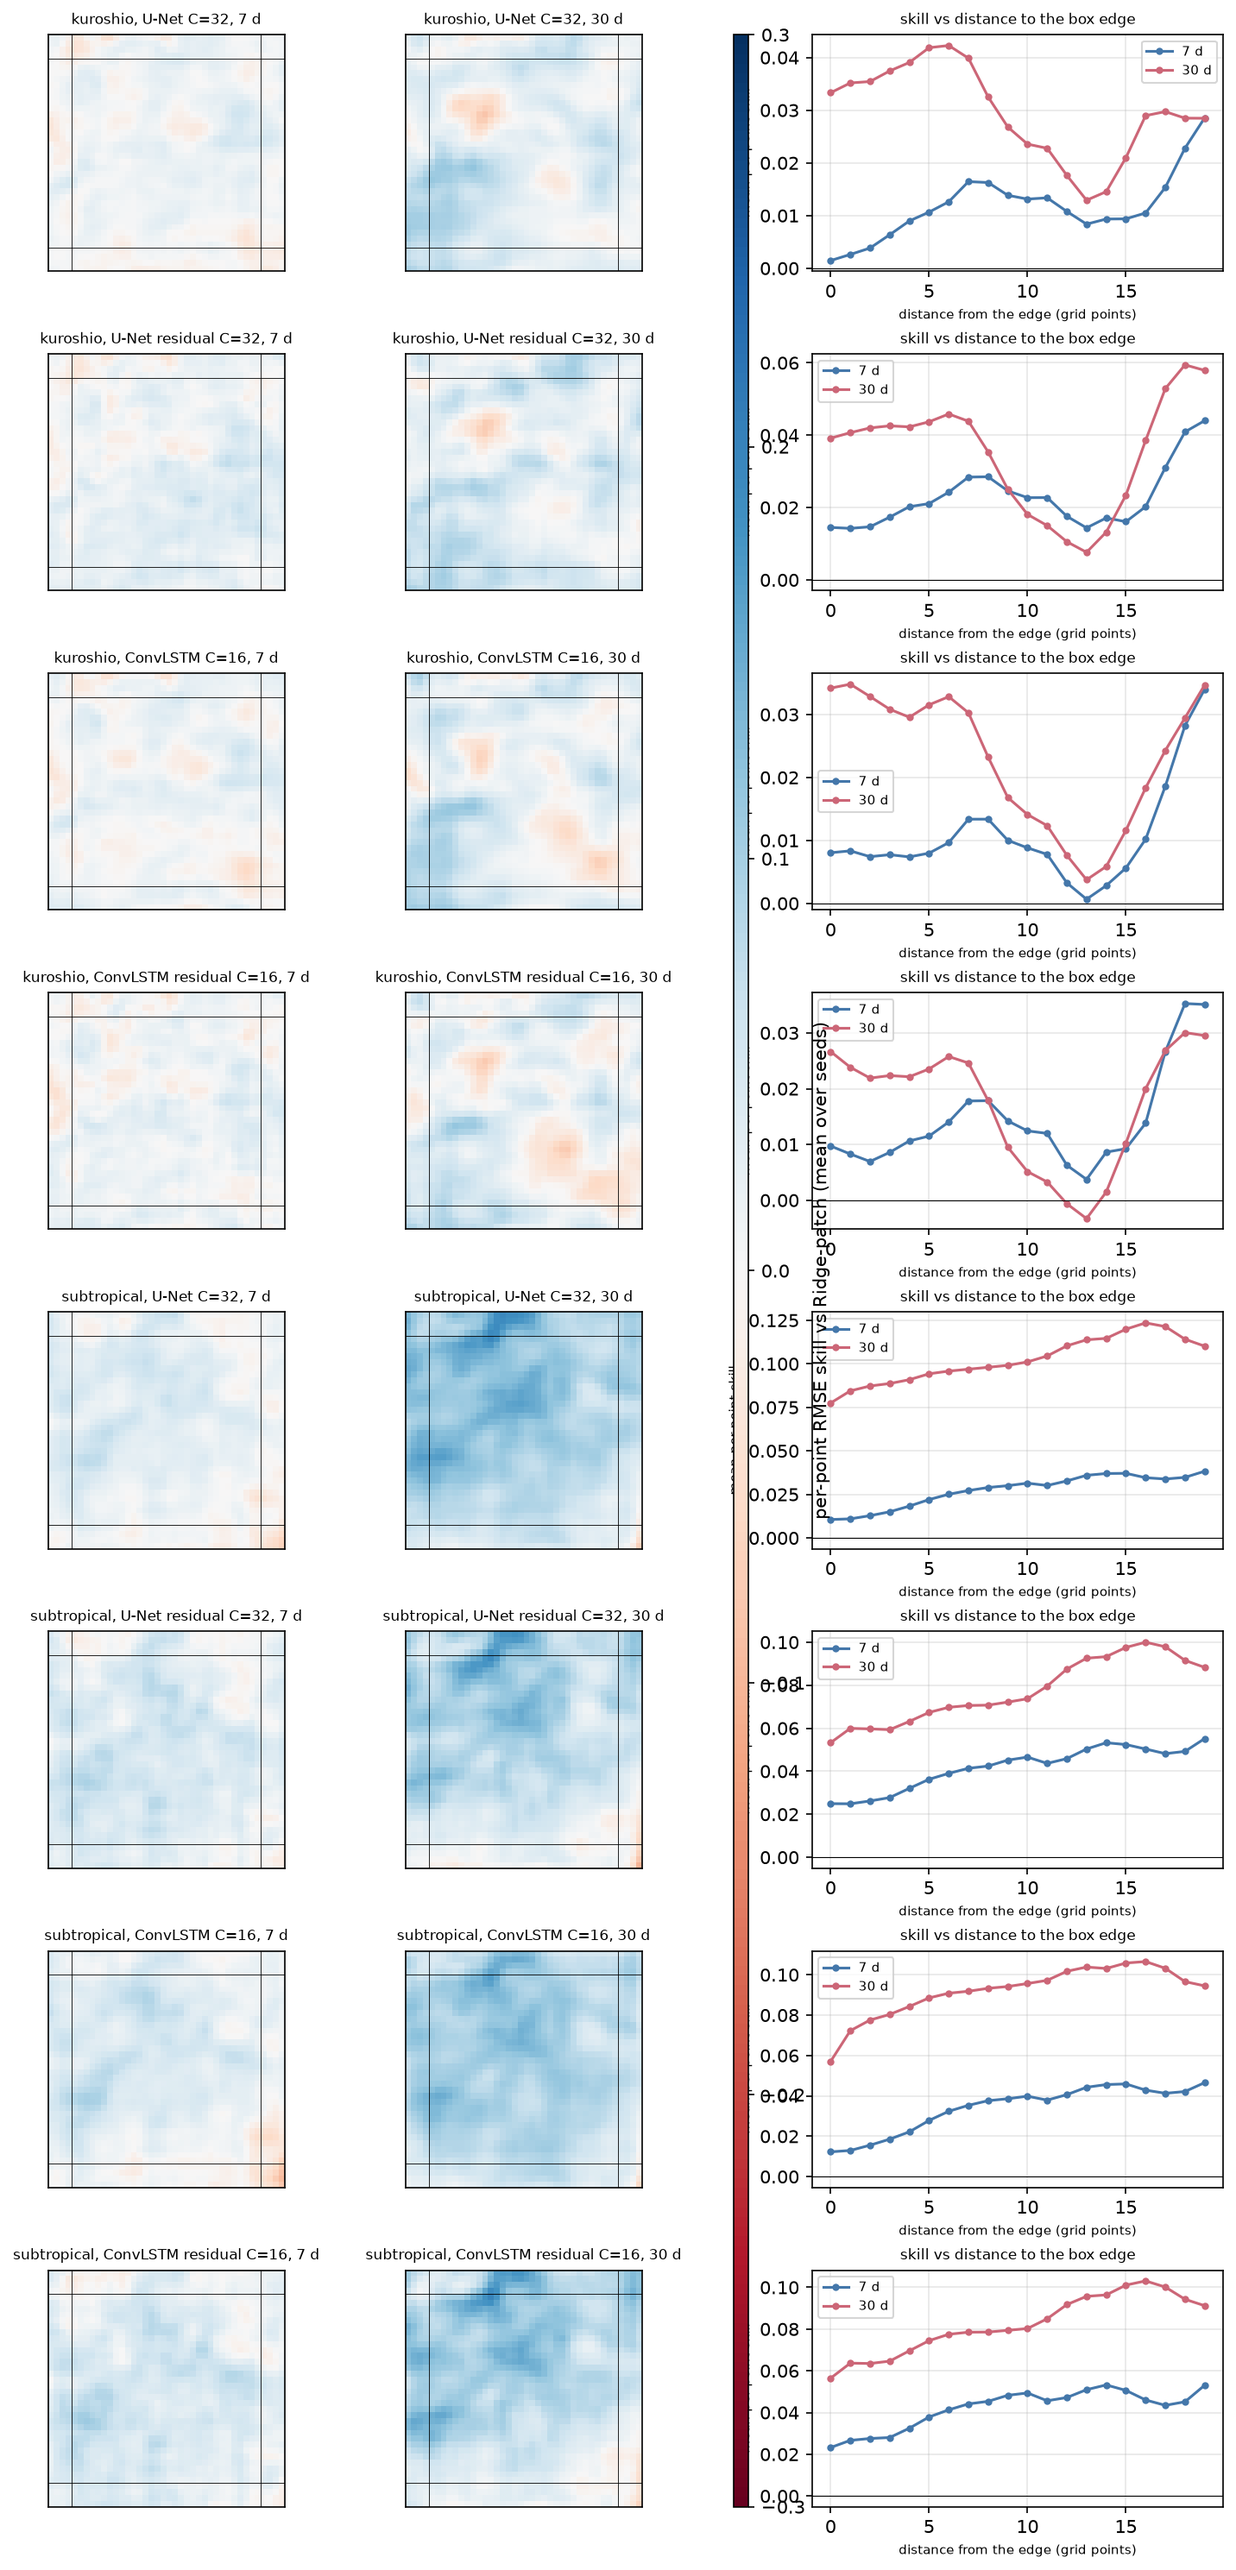
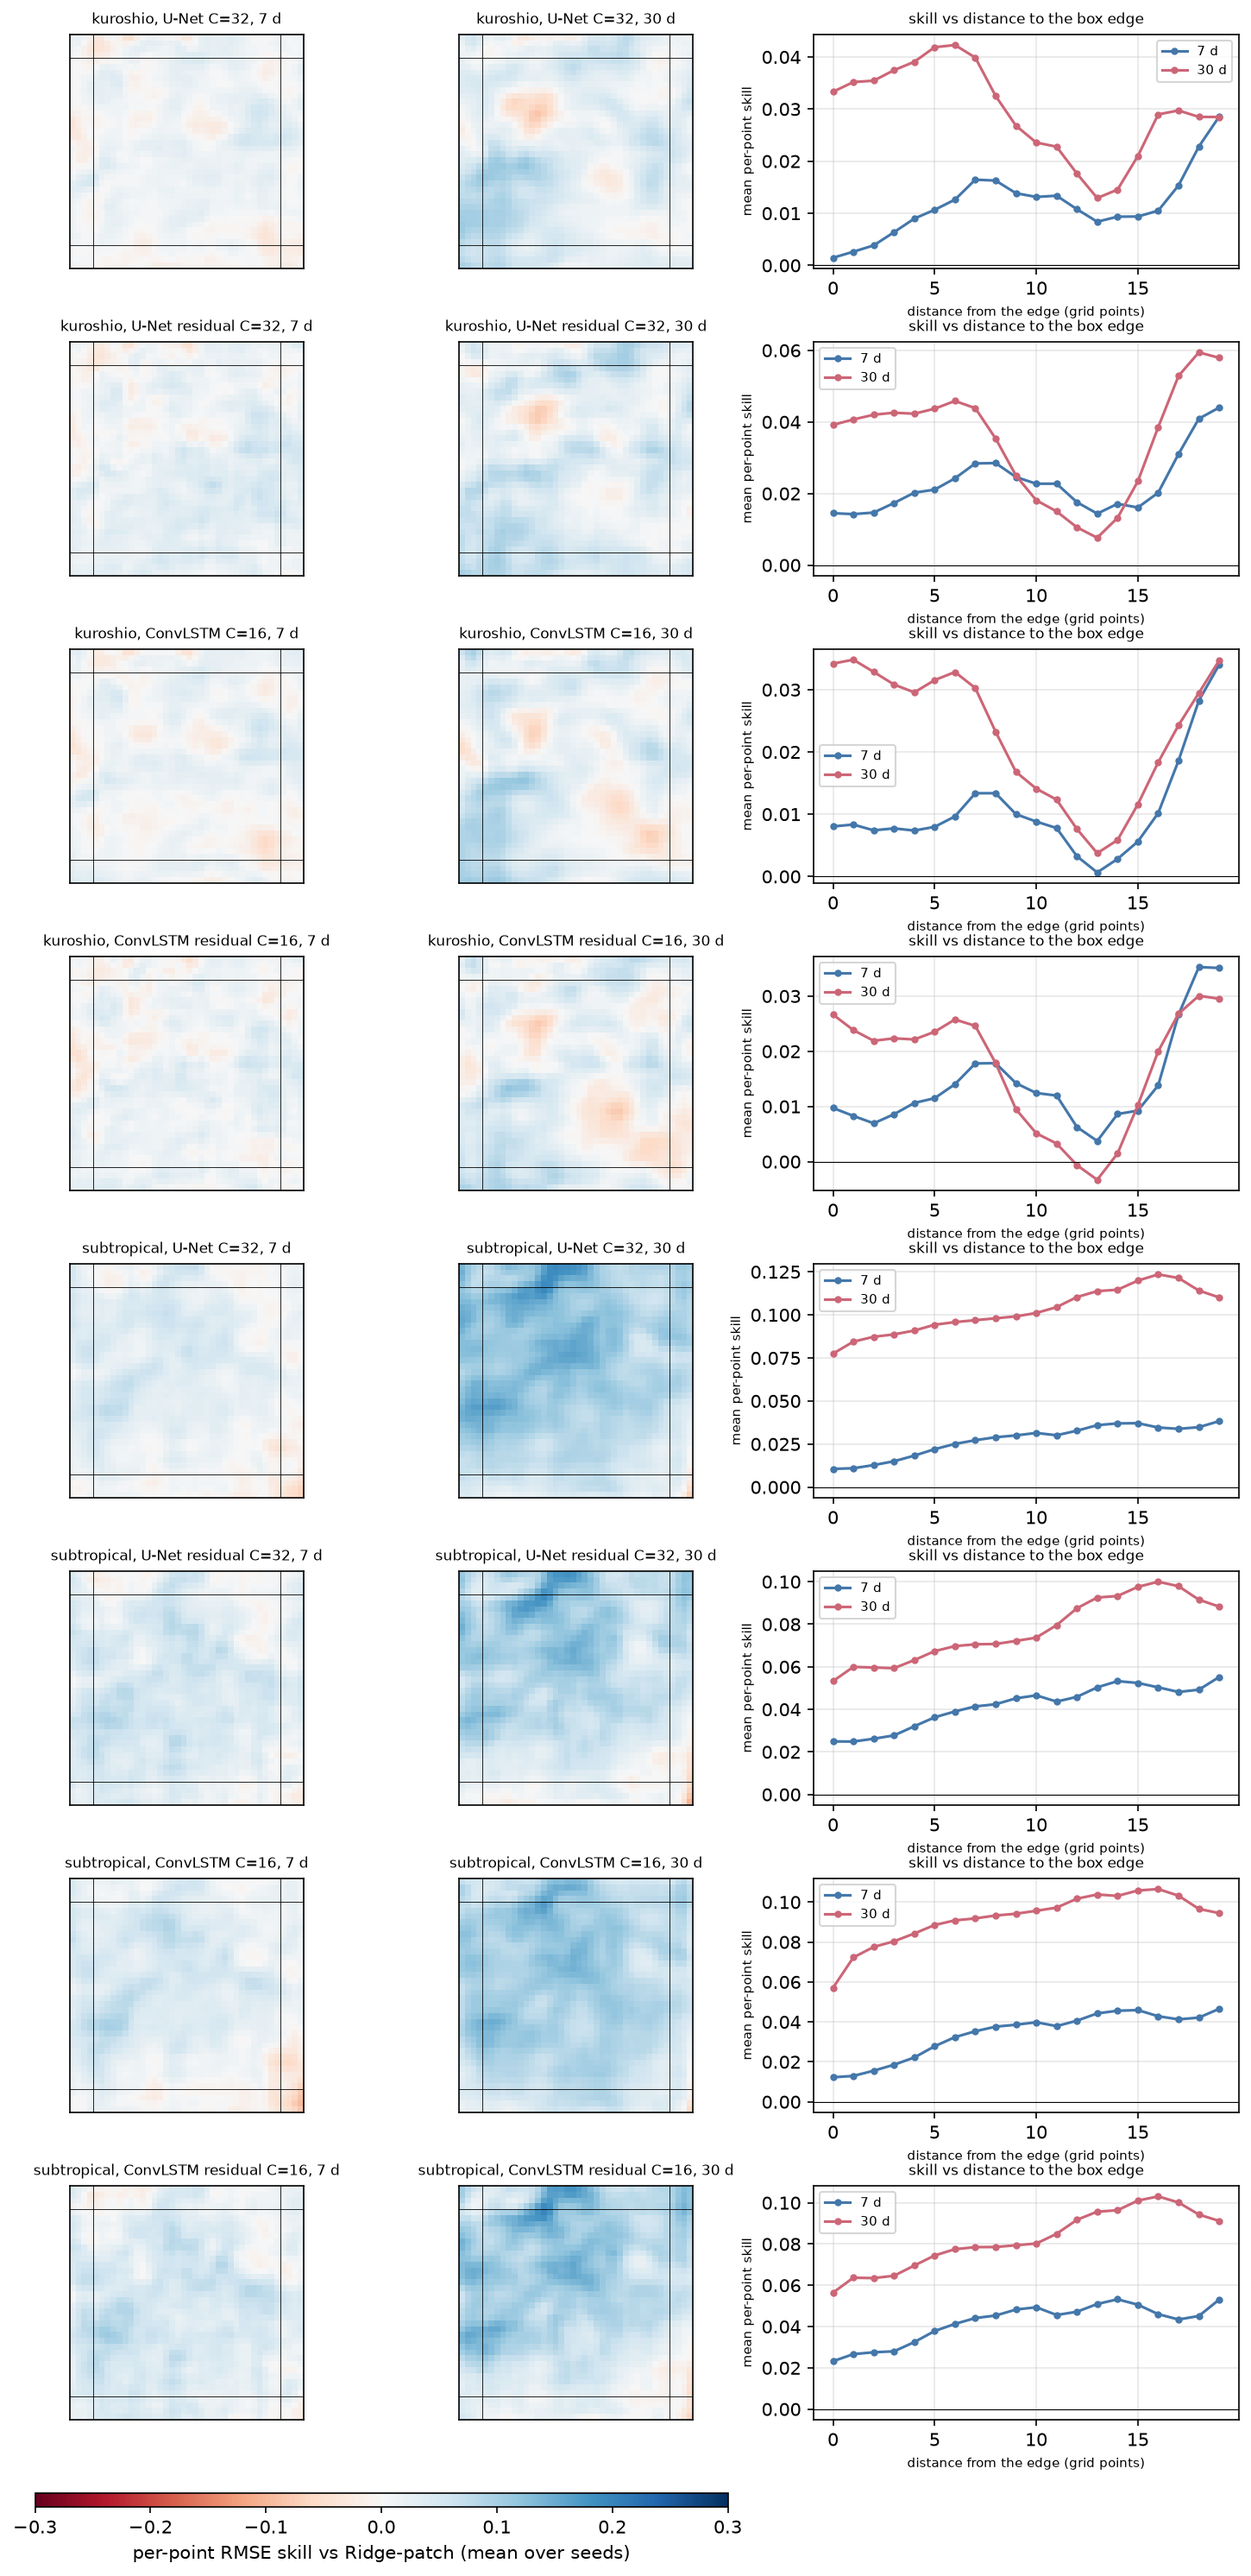
B2: redraw figB2_maps_res.png from saved results (horizontal colour bar, label no longer overprinted); caption updated
Inputs b2_val_res.json, b2_val_maps_res.npz and figB2_curves_res.png byte-identical; only layout code changed.

diff --git a/src/sst/b2_eval.py b/src/sst/b2_eval.py
@@ -293,15 +293,23 @@ def figures(res, maps_by_region, cfg, tag):
     fig.tight_layout()
     fig.savefig(RESULTS / "figures" / f"figB2_curves{tag}.png", dpi=150)
     plt.close(fig)
-    # skill maps
-    lats = {}
+    maps_figure(res, maps_by_region, tag)
+
+
+def maps_figure(res, maps_by_region, tag):
+    """Skill maps + skill-vs-edge-distance profiles. Colour bar is horizontal under the map columns (a vertical one between the columns had its label overprinted by the profile axes)."""
+    import matplotlib
+    matplotlib.use("Agg")
+    import matplotlib.pyplot as plt
+    models = list(next(iter(res["regions"].values()))["models"])
+    regions = list(res["regions"])
     rows = [(r, m) for r in regions for m in models]
     fig = plt.figure(figsize=(12, 3.1 * len(rows)))
-    gs = fig.add_gridspec(len(rows), 4, width_ratios=[1, 1, 0.05, 1.4], wspace=0.25, hspace=0.35)
+    gs = fig.add_gridspec(len(rows) + 1, 3, width_ratios=[1, 1, 1.4], height_ratios=[1] * len(rows) + [0.06], wspace=0.25, hspace=0.35)
     axes = np.empty((len(rows), 3), dtype=object)
     for i in range(len(rows)):
-        axes[i, 0], axes[i, 1], axes[i, 2] = fig.add_subplot(gs[i, 0]), fig.add_subplot(gs[i, 1]), fig.add_subplot(gs[i, 3])
-    cax = fig.add_subplot(gs[:, 2])
+        axes[i, 0], axes[i, 1], axes[i, 2] = fig.add_subplot(gs[i, 0]), fig.add_subplot(gs[i, 1]), fig.add_subplot(gs[i, 2])
+    cax = fig.add_subplot(gs[len(rows), 0:2])
     for i, (r, m) in enumerate(rows):
         C = chosen(res["regions"][r], m)
         mp = maps_by_region[r]
@@ -325,7 +333,7 @@ def figures(res, maps_by_region, cfg, tag):
         ax.set_title("skill vs distance to the box edge", fontsize=8)
         ax.legend(fontsize=7)
         ax.grid(alpha=.3)
-    fig.colorbar(im, cax=cax, label="per-point RMSE skill vs Ridge-patch (mean over seeds)")
+    fig.colorbar(im, cax=cax, orientation="horizontal", label="per-point RMSE skill vs Ridge-patch (mean over seeds)")
     fig.savefig(RESULTS / "figures" / f"figB2_maps{tag}.png", dpi=150, bbox_inches="tight")
     plt.close(fig)
 

diff --git a/src/sst/make_docs.py b/src/sst/make_docs.py
@@ -530,7 +530,7 @@ def readme(D, f):
     A("![B2 validation maps](results/figures/figB2_maps_res.png)\n\n"
       "*Figure B2 (maps; validation 2016–2019, not test). One row per region and model (Kuroshio then subtropical; U-Net C=32, U-Net residual C=32, ConvLSTM C=16, ConvLSTM residual C=16), "
       "mean over seeds 0, 1, 2. Left and middle columns: per-grid-point RMSE skill vs Ridge-patch (1 − RMSE_model / RMSE_Ridge-patch) over the 40×40 evaluated points at 7 d and 30 d lead; "
-      "blue = lower RMSE than Ridge-patch, red = higher, white = equal, colour scale fixed at −0.3 to +0.3 (the colour-bar label is partly overprinted by the panels' axes). "
+      "blue = lower RMSE than Ridge-patch, red = higher, white = equal, colour scale fixed at −0.3 to +0.3 (colour bar at the bottom). "
       "The black lines mark the outer 4-point ring. Right column: the same skill averaged over rings of equal distance from the box edge (0 = outermost point), 7 d in blue and 30 d in red, with a zero line.*\n")
     A("![B2 learning curves](results/figures/figB2_curves_res.png)\n\n"
       "*Figure B2 (learning curves; training 1982–2015, validation 2016–2019). One panel per region (rows) and model variant (columns: U-Net C=32, U-Net residual C=32, ConvLSTM C=16, ConvLSTM residual C=16). "

diff --git a/src/sst/b2_eval_res.py b/src/sst/b2_eval_res.py
@@ -6,6 +6,7 @@ validation RMSE. NEW files: results/b2_val_res.json, b2_val_res_report.md, b2_va
 """
 import copy
 import json
+import sys
 
 import numpy as np
 
@@ -111,7 +112,19 @@ def report_res_md(res, sel, cfg):
     return "\n".join(L)
 
 
+def maps_only():
+    """Redraw figB2_maps_res.png from the SAVED results/b2_val_res.json and b2_val_maps_res.npz (nothing is recomputed or rewritten except the png)."""
+    from sst.b2_eval import maps_figure
+    res = json.loads((RESULTS / f"b2_val{TAG}.json").read_text())
+    z = np.load(RESULTS / f"b2_val_maps{TAG}.npz")
+    maps = {r: {k.split("__", 1)[1]: z[k] for k in z.files if k.split("__", 1)[0] == r} for r in res["regions"]}
+    maps_figure(res, maps, TAG)
+    print(f"wrote results/figures/figB2_maps{TAG}.png from saved results")
+
+
 def main():
+    if "--maps-only" in sys.argv:
+        return maps_only()
     cfg = load_config()
     b2 = load_b2()
     models = {"unet": [32], "resunet": [b2["residual"]["resunet"]["C"]], "convlstm_ed": [16], "resconvlstm_ed": [b2["residual"]["resconvlstm_ed"]["C"]]}

diff --git a/README.md b/README.md
@@ -194,7 +194,7 @@ Test RMSE in °C (LSTM-patch, U-Net, ConvLSTM-ED: mean ± std over seeds 0, 1, 2
 
 ![B2 validation maps](results/figures/figB2_maps_res.png)
 
-*Figure B2 (maps; validation 2016–2019, not test). One row per region and model (Kuroshio then subtropical; U-Net C=32, U-Net residual C=32, ConvLSTM C=16, ConvLSTM residual C=16), mean over seeds 0, 1, 2. Left and middle columns: per-grid-point RMSE skill vs Ridge-patch (1 − RMSE_model / RMSE_Ridge-patch) over the 40×40 evaluated points at 7 d and 30 d lead; blue = lower RMSE than Ridge-patch, red = higher, white = equal, colour scale fixed at −0.3 to +0.3 (the colour-bar label is partly overprinted by the panels' axes). The black lines mark the outer 4-point ring. Right column: the same skill averaged over rings of equal distance from the box edge (0 = outermost point), 7 d in blue and 30 d in red, with a zero line.*
+*Figure B2 (maps; validation 2016–2019, not test). One row per region and model (Kuroshio then subtropical; U-Net C=32, U-Net residual C=32, ConvLSTM C=16, ConvLSTM residual C=16), mean over seeds 0, 1, 2. Left and middle columns: per-grid-point RMSE skill vs Ridge-patch (1 − RMSE_model / RMSE_Ridge-patch) over the 40×40 evaluated points at 7 d and 30 d lead; blue = lower RMSE than Ridge-patch, red = higher, white = equal, colour scale fixed at −0.3 to +0.3 (colour bar at the bottom). The black lines mark the outer 4-point ring. Right column: the same skill averaged over rings of equal distance from the box edge (0 = outermost point), 7 d in blue and 30 d in red, with a zero line.*
 
 ![B2 learning curves](results/figures/figB2_curves_res.png)
 
